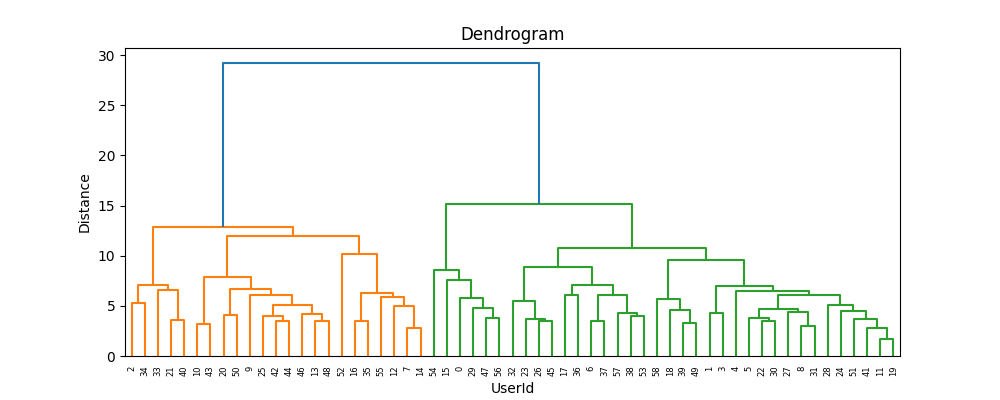
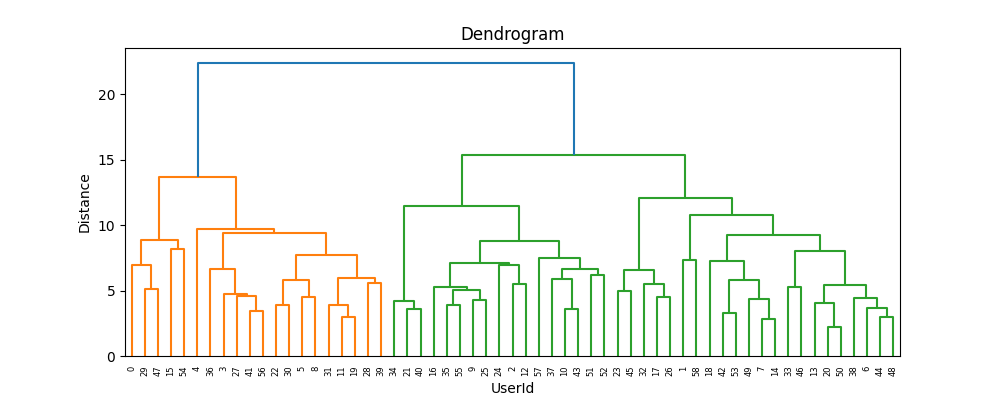
Changed 0:1, 1:0 in Clustering visual

diff --git a/src/wait_people_analytics/pipelines/clustering/nodes.py b/src/wait_people_analytics/pipelines/clustering/nodes.py
@@ -7,8 +7,9 @@ import scipy.cluster.hierarchy as sch
 
 
 def generate_hierarchical_clustering_visual(df: pd.DataFrame) -> Any:
-    df_without_id = df.drop(columns= "ID")
-    clustering = sch.linkage(df_without_id, method="ward")
+    filtered_df = df.drop(columns= "ID")
+    filtered_df = filtered_df.replace( {0: 1, 1:0})
+    clustering = sch.linkage(filtered_df, method="ward")
     plt.figure(figsize=(10, 4))
     sch.dendrogram(clustering)
     plt.xticks(rotation=90)
